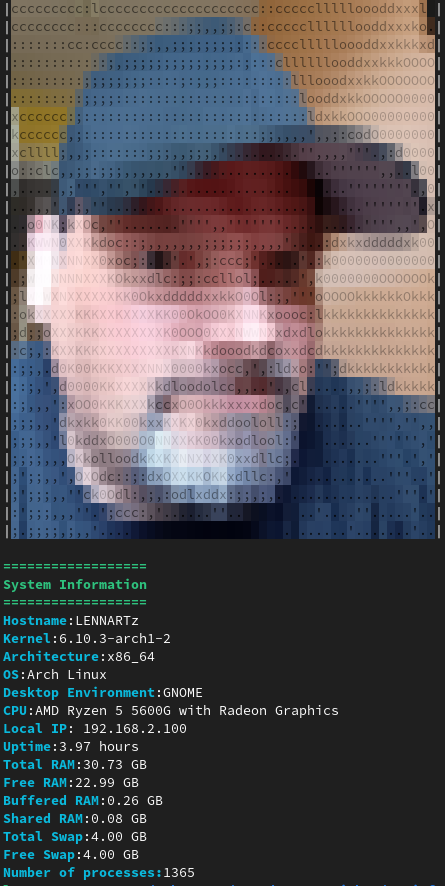
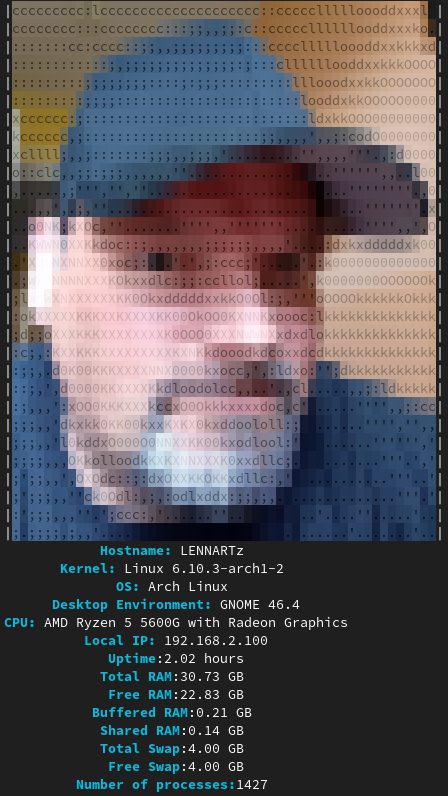
Add files via upload

diff --git a/main.c b/main.c
@@ -24,70 +24,134 @@
 #define CYAN    "\x1b[36m"
 #define BOLD    "\x1b[1m"
 
-void printSystemInfo() {
+char* get_gnome_version()
+{
+    char *buffer = malloc(100);
+    if(buffer == NULL)
+    {
+        fprintf(stderr, "Failed to allocate memory for buffer\n");
+        return NULL;
+    }
+
+    FILE* pipe = popen("gnome-shell --version", "r");
+    if (!pipe) {
+        fprintf(stderr, "Failed to run gnome-shell command\n");        
+        return NULL;
+    }    
+
+    
+    if (fgets(buffer, 100, pipe) != NULL) {
+        size_t len = strlen(buffer);
+        if (len > 0 && buffer[len - 1] == '\n') {
+            buffer[len - 1] = '\0';
+        }
+    } else {
+        fprintf(stderr, "Failed to read gnome-shell version\n");
+        free(buffer);
+        return NULL;
+    }
+    buffer += 12; // Remove the "gnome-shell " prefix
+    buffer[strlen(buffer)] = '\0';    
+    
+    pclose(pipe);
+    return buffer;
+}
+
+char* get_system_info() {
+    char *systeminfo = malloc(4096);
+    if (systeminfo == NULL) {
+        perror("malloc");
+        return NULL;
+    }
+
     char hostname[256];
+    char kernel[256];
+    char architecture[256];
+    char os[256];
+    char desktop_env[256];
+    char CPU[256];
+    char local_IP[256];
+
     struct utsname unameData;
 
     // Hostname
-    if (gethostname(hostname, sizeof(hostname)) == 0) {
-        printf(BOLD CYAN "Hostname" RESET ":%s\n", hostname);
-    } else {
+    if (gethostname(hostname, sizeof(hostname)) != 0) {
         perror("gethostname");
+        strcpy(hostname, "Unknown");
     }
 
     // Kernel and Architecture
-    if (uname(&unameData) == 0) {
-        printf(BOLD CYAN "Kernel" RESET ":%s\n", unameData.release);
-        printf(BOLD CYAN "Architecture" RESET ":%s\n", unameData.machine);
-    } else {
+    if (uname(&unameData) != 0) {
         perror("uname");
+        strcpy(kernel, "Unknown");
+    } else {
+        snprintf(kernel, sizeof(kernel), "%s %s", unameData.sysname, unameData.release);
     }
 
     // OS
     FILE *osRelease = fopen("/etc/os-release", "r");
     if (osRelease != NULL) {
         char line[256];
-        char c;
         while (fgets(line, sizeof(line), osRelease)) {
             if (strncmp(line, "PRETTY_NAME=", 12) == 0) {
-                for(int i = 12; i < sizeof(line); i++) // Remove the quotes
-                {
-                    if(line[i] == '"')
-                    {
+                size_t len = strlen(line);
+                if (line[len - 1] == '\n') {
+                    line[len - 1] = '\0';
+                }
+                for(int i = 0; i < len; i++) {
+                    if (line[i] == '"') {
                         line[i] = ' ';
                     }
                 }
-                printf(BOLD CYAN "OS" RESET ":%s", line + 13); // Skip "PRETTY_NAME="
+                snprintf(os, sizeof(os), "%s", line + 13); // Skip "PRETTY_NAME="
                 break;
             }
         }
         fclose(osRelease);
     } else {
         perror("fopen /etc/os-release");
+        strcpy(os, "Unknown");
     }
 
     // Desktop Environment
+    char *gnome_version = get_gnome_version();
+    if(gnome_version == NULL)
+    {
+        fprintf(stderr, "Failed to get gnome version\n");
+        gnome_version -=12; // Set pointer back !
+        free(gnome_version);
+        free(systeminfo);
+        return NULL;
+    }
+
     char *desktopEnv = getenv("XDG_CURRENT_DESKTOP");
     if (desktopEnv != NULL) {
-        printf(BOLD CYAN "Desktop Environment" RESET ":%s\n", desktopEnv);
+        snprintf(desktop_env, sizeof(desktop_env) + sizeof(gnome_version), "%s %s", desktopEnv, gnome_version);        
     } else {
-        printf(BOLD CYAN "Desktop Environment" RESET ":Unknown\n");
+        strcpy(desktop_env, "Unknown");
     }
-    
+    gnome_version -= 12; // Set pointer back !
+    free(gnome_version);
+
     // CPU
     FILE *cpuInfo = fopen("/proc/cpuinfo", "r");
     if (cpuInfo != NULL) {
         char line[256];
         while (fgets(line, sizeof(line), cpuInfo)) {
             if (strncmp(line, "model name", 10) == 0) {
-                printf(BOLD CYAN "CPU" RESET ":%s", line + 13); // Skip "model name	: "
+                snprintf(CPU, sizeof(CPU), "%s", line + 13); // Skip "model name	: "
+                size_t len = strlen(CPU);
+                if (CPU[len - 1] == '\n') {
+                    CPU[len - 1] = '\0';
+                }
                 break;
             }
         }
         fclose(cpuInfo);
     } else {
         perror("fopen /proc/cpuinfo");
-    }   
+        strcpy(CPU, "Unknown");
+    }
 
     // Local IP
     struct ifaddrs *ifaddr, *ifa;
@@ -96,14 +160,77 @@ void printSystemInfo() {
             if (ifa->ifa_addr == NULL)
                 continue;
             if (ifa->ifa_addr->sa_family == AF_INET && strcmp(ifa->ifa_name, "lo") != 0) {
-                printf(BOLD CYAN "Local IP" RESET ": %s\n", inet_ntoa(((struct sockaddr_in *)ifa->ifa_addr)->sin_addr));
+                snprintf(local_IP, sizeof(local_IP), "%s", inet_ntoa(((struct sockaddr_in *)ifa->ifa_addr)->sin_addr));                
                 break;
             }
         }
         freeifaddrs(ifaddr);
     } else {
         perror("getifaddrs");
+        strcpy(local_IP, "Unknown");
     }
+
+    // Combine all the information into a single string
+    snprintf(systeminfo, 4096, BOLD CYAN "Hostname:"RESET" %s\n"BOLD CYAN "Kernel:"RESET" %s\n"BOLD CYAN"OS:"
+            RESET" %s\n"BOLD CYAN"Desktop Environment:"RESET" %s\n"BOLD CYAN"CPU:"RESET" %s\n"BOLD CYAN"Local IP:"RESET" %s\n",
+             hostname, kernel, os, desktop_env, CPU, local_IP);
+       
+    return systeminfo;
+}
+
+char* center(const char *text) {
+    char *result = NULL;
+    char *line, *saveptr;
+    char *input = strdup(text);
+    int max_line_length = 0;
+    int total_length = 0;
+    int line_count = 0;
+
+    line = strtok_r(input, "\n", &saveptr);
+    while (line != NULL) {
+        int len = strlen(line);
+        if (len > max_line_length) {
+            max_line_length = len;
+        }
+        total_length += len + 1; 
+        line_count++;
+        line = strtok_r(NULL, "\n", &saveptr);
+    }
+
+    result = (char*)malloc(total_length + line_count * max_line_length + 1);
+    if (result == NULL) {
+        free(input);
+        return NULL;
+    }
+
+    char *output = result;
+    const char *input_ptr = text;
+    while (*input_ptr) { 
+        if (*input_ptr == '\n' && (input_ptr == text || *(input_ptr - 1) == '\n')) {
+            *output++ = '\n';
+            input_ptr++;
+            continue;
+        }
+
+        const char *end = strchr(input_ptr, '\n');
+        if (!end) end = input_ptr + strlen(input_ptr);
+
+        int line_length = end - input_ptr;
+        int padding = (max_line_length - line_length) / 2;
+
+        for (int i = 0; i < padding; i++) {
+            *output++ = ' ';
+        }
+        strncpy(output, input_ptr, line_length);
+        output += line_length;
+        *output++ = '\n';
+
+        input_ptr = *end ? end + 1 : end;
+    }
+    *output = '\0';
+
+    free(input);
+    return result;
 }
 
 char* get_uptime(long uptime_seconds)
@@ -133,17 +260,8 @@ char* get_uptime(long uptime_seconds)
 
 int main() {
     struct sysinfo info;
-
-    printf(ansi_pic);
-
-    printf(BOLD GREEN"\n");
-    printf("==================\n");
-    printf("System Information\n");
-    printf("==================\n");
-
-    printf(RESET);
-
-    printSystemInfo();
+    
+    printf("%s", ansi_pic);
 
     if (sysinfo(&info) != 0) {
         perror("sysinfo");
@@ -151,16 +269,47 @@ int main() {
     }
     
     char *uptime = get_uptime(info.uptime);
+    if (uptime == NULL) {
+        fprintf(stderr, "Failed to get uptime\n");
+        return 1;
+    }
 
-    printf(BOLD CYAN "Uptime"RESET":%s\n", uptime);
-    printf(BOLD CYAN "Total RAM"RESET":%.2f GB\n", (double)info.totalram / GB);
-    printf(BOLD CYAN "Free RAM"RESET":%.2f GB\n", (double)(info.freeram + info.bufferram + info.sharedram) / GB);
-    printf(BOLD CYAN "Buffered RAM"RESET":%.2f GB\n", (double)info.bufferram / GB);
-    printf(BOLD CYAN "Shared RAM"RESET":%.2f GB\n", (double)info.sharedram / GB);
-    printf(BOLD CYAN "Total Swap"RESET":%.2f GB\n", (double)info.totalswap / GB);
-    printf(BOLD CYAN "Free Swap"RESET":%.2f GB\n", (double)info.freeswap / GB);
-    printf(BOLD CYAN "Number of processes:"RESET"%ld\n", info.procs);     
+    char *system_text = get_system_info();
+    if (system_text == NULL) {
+        fprintf(stderr, "Failed to get system info\n");
+        free(uptime);
+        return 1;
+    }
 
+    char *all_text = malloc(8192);
+    if (all_text == NULL) {
+        fprintf(stderr, "Memory allocation failed\n");
+        free(uptime);
+        free(system_text);
+        return 1;
+    }
+    
+
+    snprintf(all_text, 8192, "%s"BOLD CYAN"Uptime"RESET":%s\n"BOLD CYAN"Total RAM"RESET":%.2f GB\n"BOLD CYAN"Free RAM"RESET":%.2f GB\n"
+            BOLD CYAN "Buffered RAM"RESET":%.2f GB\n"BOLD CYAN"Shared RAM"RESET":%.2f GB\n"BOLD CYAN"Total Swap"RESET":%.2f GB\n"BOLD CYAN
+            "Free Swap"RESET":%.2f GB\n"BOLD CYAN"Number of processes:"RESET"%ld\n", system_text, uptime, (double)info.totalram / GB,
+            (double)(info.freeram + info.bufferram + info.sharedram) / GB, (double)info.bufferram / GB, (double)info.sharedram / GB,
+            (double)info.totalswap / GB, (double)info.freeswap / GB, info.procs);
+
+    char* centered_text = center(all_text);    
+    if (centered_text == NULL) {
+        fprintf(stderr, "Failed to center text\n");
+        free(all_text);
+        free(uptime);
+        free(system_text);
+        return 1;
+    }
+
+    printf("%s\n", centered_text);
+
+    free(centered_text);
+    free(all_text);
+    free(system_text);
     free(uptime);
 
     return 0;
